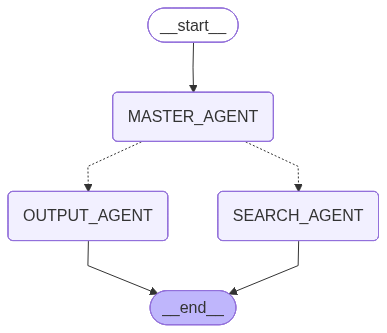
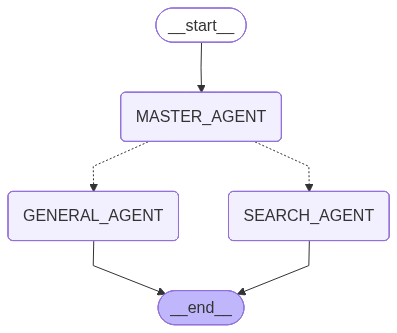
refactor general agent

diff --git a/app/workflow/graph.py b/app/workflow/graph.py
@@ -1,6 +1,6 @@
 from langgraph.graph import END, StateGraph
 from workflow.agents.master_agent import MasterAgent
-from workflow.agents.output_agent import OutputAgent
+from workflow.agents.general_agent import GeneralAgent
 from workflow.agents.search_agent import SearchAgent
 from workflow.state import AgentType, RootState
 
@@ -9,26 +9,26 @@ def create_workflow(session_id: str = ""):
     workflow = StateGraph(RootState)
 
     master_agent = MasterAgent(session_id=session_id)
-    output_agent = OutputAgent(session_id=session_id)
+    general_agent = GeneralAgent(session_id=session_id)
     search_agent = SearchAgent(session_id=session_id)
 
     workflow.add_node(AgentType.MASTER, master_agent.run)
-    workflow.add_node(AgentType.OUTPUT, output_agent.run)
+    workflow.add_node(AgentType.GENERAL, general_agent.run)
     workflow.add_node(AgentType.SEARCH, search_agent.run)
 
     workflow.set_entry_point(AgentType.MASTER)
 
     def route_master(state: RootState):
-        return state.get("next_node", AgentType.OUTPUT)
+        return state.get("next_node", AgentType.GENERAL)
 
     workflow.add_conditional_edges(
         AgentType.MASTER,
         route_master,
-        {AgentType.SEARCH: AgentType.SEARCH, AgentType.OUTPUT: AgentType.OUTPUT},
+        {AgentType.SEARCH: AgentType.SEARCH, AgentType.GENERAL: AgentType.GENERAL},
     )
 
     workflow.add_edge(AgentType.SEARCH, END)
-    workflow.add_edge(AgentType.OUTPUT, END)
+    workflow.add_edge(AgentType.GENERAL, END)
 
     return workflow.compile()
 

diff --git a/app/workflow/agents/master_agent.py b/app/workflow/agents/master_agent.py
@@ -9,7 +9,7 @@ from workflow.state import AgentType
 class RouteDecision(BaseModel):
     """Decision model for routing the conversation."""
 
-    next_node: Literal[AgentType.OUTPUT, AgentType.SEARCH] = Field(
+    next_node: Literal[AgentType.GENERAL, AgentType.SEARCH] = Field(
         description="The next agent to route the conversation to."
     )
 
@@ -26,7 +26,7 @@ class MasterAgent(Agent):
         return (
             "Analyze the user's latest query. "
             "If it requires searching for research papers, finding academic references, or looking up technical information, route to SEARCH_AGENT. "
-            "If it is a general question, greeting, summary request without search, or conversation, route to OUTPUT_AGENT."
+            "If it is a general question, greeting, summary request without search, or conversation, route to GENERAL_AGENT."
         )
 
     def _generate_response(self, state: AgentState) -> AgentState:

diff --git a/app/workflow/agents/general_agent.py b/app/workflow/agents/general_agent.py
@@ -4,11 +4,11 @@ from workflow.agents.agent import Agent
 from workflow.state import AgentType
 
 
-class OutputAgent(Agent):
+class GeneralAgent(Agent):
     def __init__(self, session_id: str):
         super().__init__(
             system_prompt="You are a helpful assistant.",
-            role=AgentType.OUTPUT,
+            role=AgentType.GENERAL,
             session_id=session_id,
         )
 

diff --git a/app/workflow/state.py b/app/workflow/state.py
@@ -3,7 +3,7 @@ from typing import Annotated, Dict, List, TypedDict
 
 class AgentType:
     MASTER = "MASTER_AGENT"
-    OUTPUT = "OUTPUT_AGENT"
+    GENERAL = "GENERAL_AGENT"
     SEARCH = "SEARCH_AGENT"
 
 
